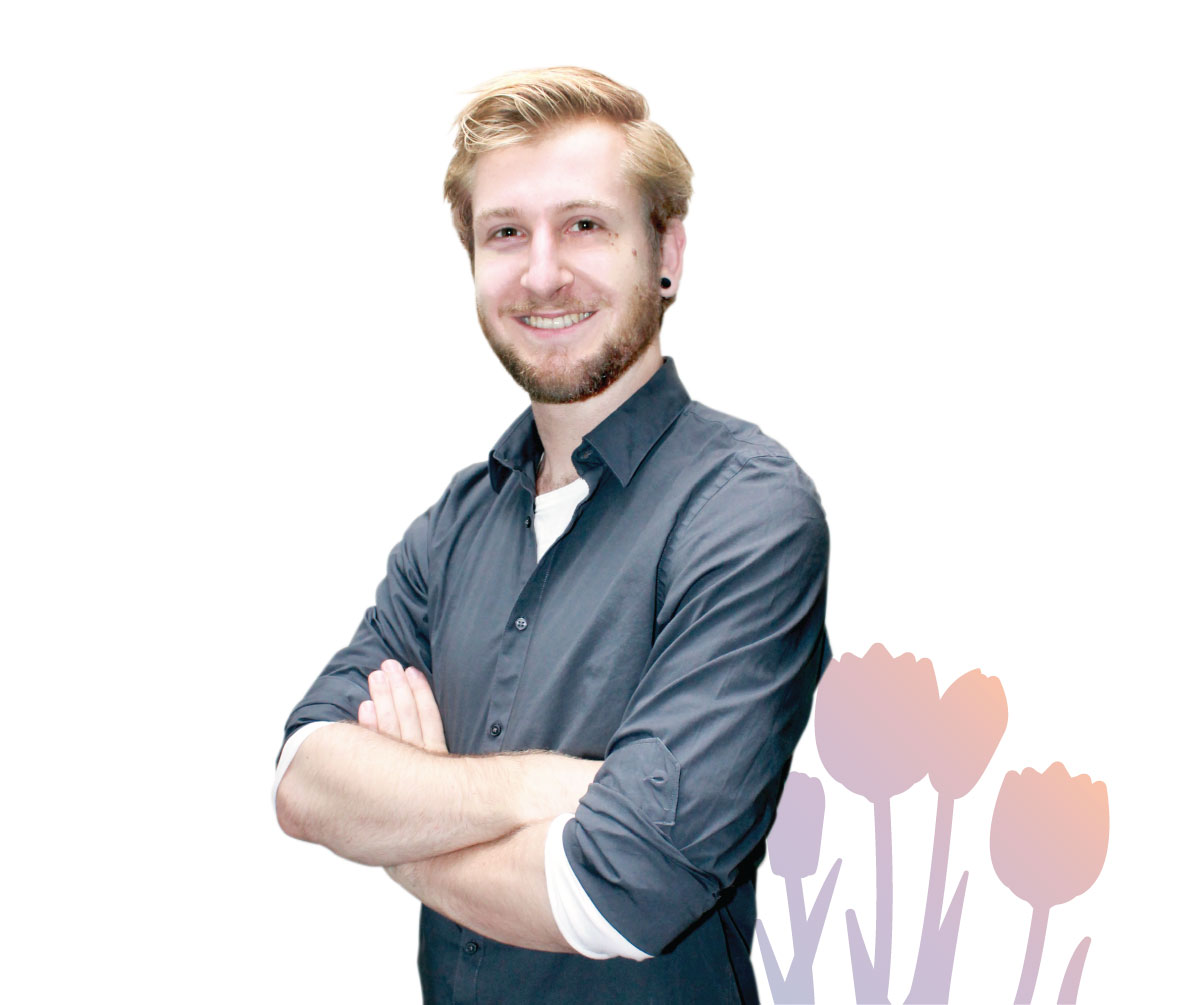
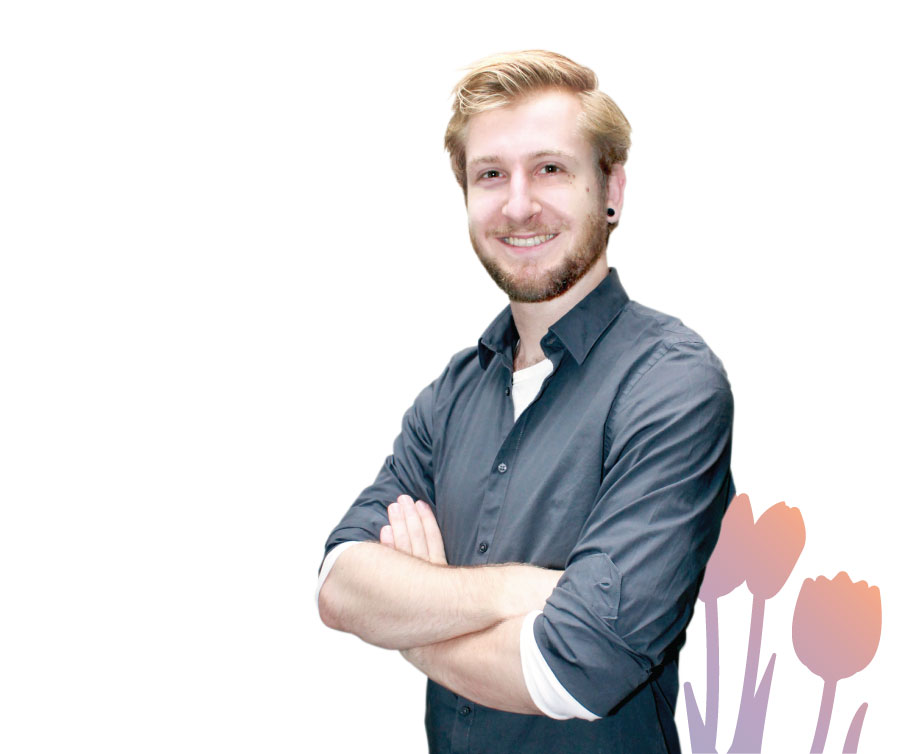
new images, for mobile

diff --git a/index.html b/index.html
@@ -63,7 +63,7 @@
         <div class="container">
             <div class="menu white transition">
                 <div class="col-lg-12">
-                    <a class="col-lg-3" href="index.html#hero">Dutch Ready</a>
+                    <a class="col-lg-3 hidden" href="index.html#hero">Dutch Ready</a>
                     <div class="col-lg-9 nav">
                     <ul>
                         <li><a href="#ourlessons">Our lessons</a></li>
@@ -96,21 +96,23 @@
 
         <!-- USPs -->
         <div class="container topmd" id="ourlessons">
+        <div class="col-lg-12 mobile"><img src="img/0all.png"></div>
+
             <div class="col-lg-5 topsm">
-                <h3>Practical</h3>
+                <h3>Quality Tutors</h3>
                 <p>
-                    We take great care in finding our tutors and planning our lessons. Our lessons are one-on-one private sesions and focus on conversational fluency and learning through understanding, so that you get the most bang for your buck. Our friendly tutors are language enthousiasts with a passion for education, motivated to get you speaking Dutch in no time.
+                    We take great care in finding our tutors and planning our lessons. Our friendly tutors are language enthusiasts with a passion for education, motivated to get you speaking Dutch in no time. Finding the tutor that's right for you is a breeze with our initial personal assessment.
                 </p>
             </div>
 
-            <div class="col-lg-6 col-lg-push-1"><img src="img/1effective.png"></div>
+            <div class="col-lg-6 col-lg-push-1 hidden"><img src="img/1quality.png"></div>
 
         </div>
 
         <div class="container topmd">
-            <div class="col-lg-6"><img src="img/2flexible.png"></div>
+            <div class="col-lg-6 hidden"><img src="img/2flexible.png"></div>
             <div class="col-lg-5 topsm">
-                <h3>Flexible</h3>
+                <h3>Flexible scheduling</h3>
                 <p>
                     No more cycling through the rain, no more rushing to a lesson. Our lessons can take place in the comfort of your own home or even your favorite café. We plan our hours weekly so that we can work around your schedule with ease.
                 </p>
@@ -119,13 +121,13 @@
 
         <div class="container topmd">
             <div class="col-lg-5 topsm">
-                <h3>Customizable</h3>
+                <h3>Customizable lesson plans</h3>
                 <p>
                     Don't waste time learning things you don't need. Our lessons are set at your pace and your level. We focus on topics that you want to learn, for situations you want to feel confident in.  Be it striking up a conversation with co-workers, meeting new people in a bar, or just grabbing a bite to eat. This way you learn exactly what you need, even as that need changes.
                 </p>
             </div>
 
-            <div class="col-lg-6 col-lg-push-1"><img src="img/3customizable.png"></div>
+            <div class="col-lg-6 col-lg-push-1 hidden"><img src="img/3customizable.png"></div>
         </div>
 
     
@@ -141,7 +143,7 @@
                             Dutch Ready has a great approach to teaching. As opposed to simply repeating words or phrases (as is often the case), Dutch Ready focuses on teaching through understanding, and makes understanding difficult concepts seem relatively simple!
                         </h4><br>
                         <h3 class="name">Tom T.</h3>
-                        <h3 class="level">Intermediate student</h3>
+                        <h3 class="level">Intermediate level</h3>
                         </h3>
                     </div>
                 </div>
@@ -202,7 +204,7 @@
 							<div class="button grow topsm">Sign up</div>
 							</a>
 		                    </div>
-	                    <p class="center">*Lessons are priced at 1 hour each and billed in 2 payments.</p>
+	                    <p class="center">*Lessons are priced at 1 hour each. Billing is done in 2 payments.</p>
                     </div>
                 </div>
             </div><!-- end pricingplan -->
@@ -241,9 +243,9 @@
                     </div>
                     <div class="col-md-6 topsm">
 	                    <h4>Hoi! Ik ben Casper.</h4>
-						<h2>As a lifelong learner and self proclaimed geek, I've always had a passion for learning. It started when I moved from The Netherlands to the U.S. as a child, not knowing a single word of English. I know how powerful it can be to finally break down the language barrier and be able to speak to someone openly. Through Dutch Ready I want to share that feeling with others.</h2>
+						<h2>As an eager learner and self proclaimed geek I've always had a passion for education. It started when I moved from The Netherlands to the U.S. as a child, without speaking a single word of English. All I could do was try to learn. I know how powerful it can be to break down the language barrier and be able to speak to someone openly. Through Dutch Ready I want to share that feeling with others.</h2>
 
-						<h2>I want all our students to be as passionate about our lessons as we are. And I'm confident you will be, right after the first lesson! But if not, we make it super easy to get your money back.</h2>
+						<h2>I want all our students to be as passionate about our lessons as we are. And I'm confident you will be, right after the first lesson! That's why we always do a personal assessment before starting so that your level, learning style and personality match well with that of your tutor. But if you're not satisfied, we make it super easy to get your money back.</h2>
 
 						<h2>I hope you're as excited to start learning Dutch as I am to share it! Still want to ask a question or two before signing up? No problem! Just ask me anything down here!</h2>
 

diff --git a/css/style.css b/css/style.css
@@ -128,14 +128,17 @@ nav {
     left: 0;
     padding: 10px 0 0px;
     z-index: 1;
+    background-color: white;
 }
 
 .menu li {
-    padding: 0 20px 0 15px;
+    padding: 5px 20px 0 0 ;
     display: inline-block;
 }
 
-
+.hidden {
+    display: none;
+}
 
 
 /* ––––––––––––––––––––––––––––
@@ -174,10 +177,6 @@ nav {
 
 #contact {
     padding-top: 80px;
-    background-image: url("../img/founder.jpg");
-    background-position: bottom right;
-    background-repeat: no-repeat;
-    background-size: 60%; 
 }
 
 #footer {
@@ -287,6 +286,10 @@ nav {
     text-transform: none;
 }
 
+.mobile {
+    display: block;
+}
+
  #circle {
       width: 200px;
       height: 200px;
@@ -306,7 +309,7 @@ nav {
 }
 
 .topmd {
-    margin-top: 50px;
+    margin-top: 20px;
 }
 
 .toplg {
@@ -341,37 +344,32 @@ nav {
         background-size: 100%; 
     }
 
-    .photo {
-        padding: 0;
-        -webkit-box-shadow: -12px 12px 25px 0 rgba(0, 0, 0, 0.14);
-        -moz-box-shadow: -12px 12px 25px 0 rgba(0, 0, 0, 0.14);
-        box-shadow: -12px 12px 25px 0 rgba(0, 0, 0, 0.14);
+    #contact {
+        background-image: url("../img/founder.jpg");
+        background-position: bottom right;
+        background-repeat: no-repeat;
+        background-size: 60%; 
     }
-    .side {
-        display: inline;
-    }
+
     nav {
         display: inline;
     }
+
     .herotext {
         padding-top: 25vh;
     }
+
     .herodetails {
-    display: block;
-    }
-    .bottomoverlap {
-        margin-top: -300px;
+        display: block;
     }
 
     .menu {
-        background-color: white;
         padding: 30px 60px 0;
     }
 
     .white {
         background-color: transparent;
     }
-
 
     .transition {
         -webkit-transition: all .4s ease-in-out;
@@ -401,6 +399,14 @@ nav {
     
     .nav {
         text-align: right;
+    }
+
+    .hidden {
+        display: block;
+    }
+
+    .mobile {
+        display: none;
     }
     .topsm {
         margin-top: 40px;
